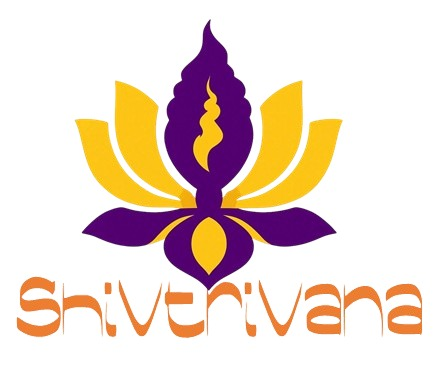
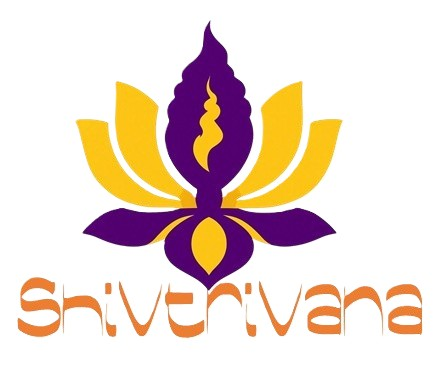
stats changes

diff --git a/components/navigation.js b/components/navigation.js
@@ -31,7 +31,7 @@ export function Navigation() {
 
   return (
     <header
-      className={`sticky top-0 z-50 w-full transition-all duration-300 ${isScrolled ? "border-b border-border bg-background/95 backdrop-blur-sm shadow-sm" : "bg-transparent"
+      className={`sticky top-0 z-50 w-full transition-all duration-300 ${isScrolled ? "border-b border-border bg-[#FFFFFF] backdrop-blur-sm shadow-sm" : "bg-[#FFFFFF]"
         }`}
     >
       <nav className="container mx-auto px-6">
@@ -39,7 +39,7 @@ export function Navigation() {
           {/* Logo */}
           <Link href="/" className="flex items-center gap-3 transition-opacity hover:opacity-90">
             <Image
-              src="/images/f81d94c8-3f18-4e09-ba47-d412d2a9b2b3.jpg"
+              src="/images/shiv-logo.png"
               alt="Shivtrivana Logo"
               width={160}
               height={48}
